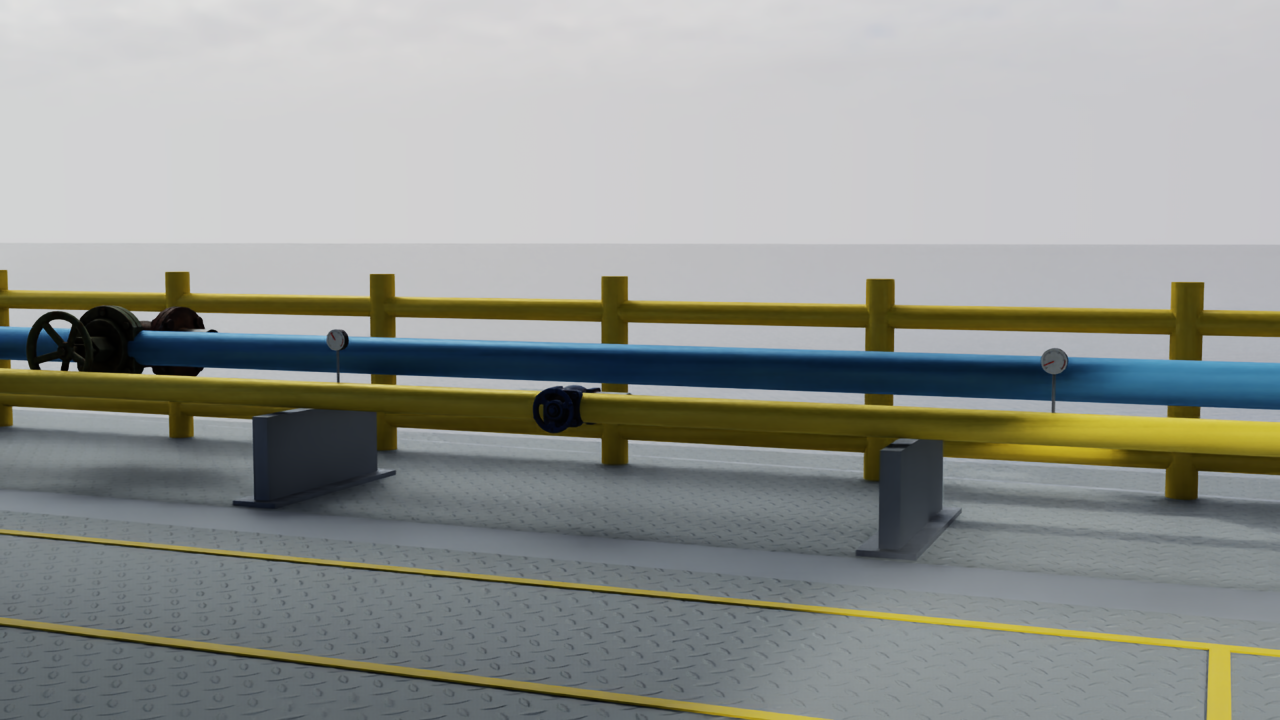
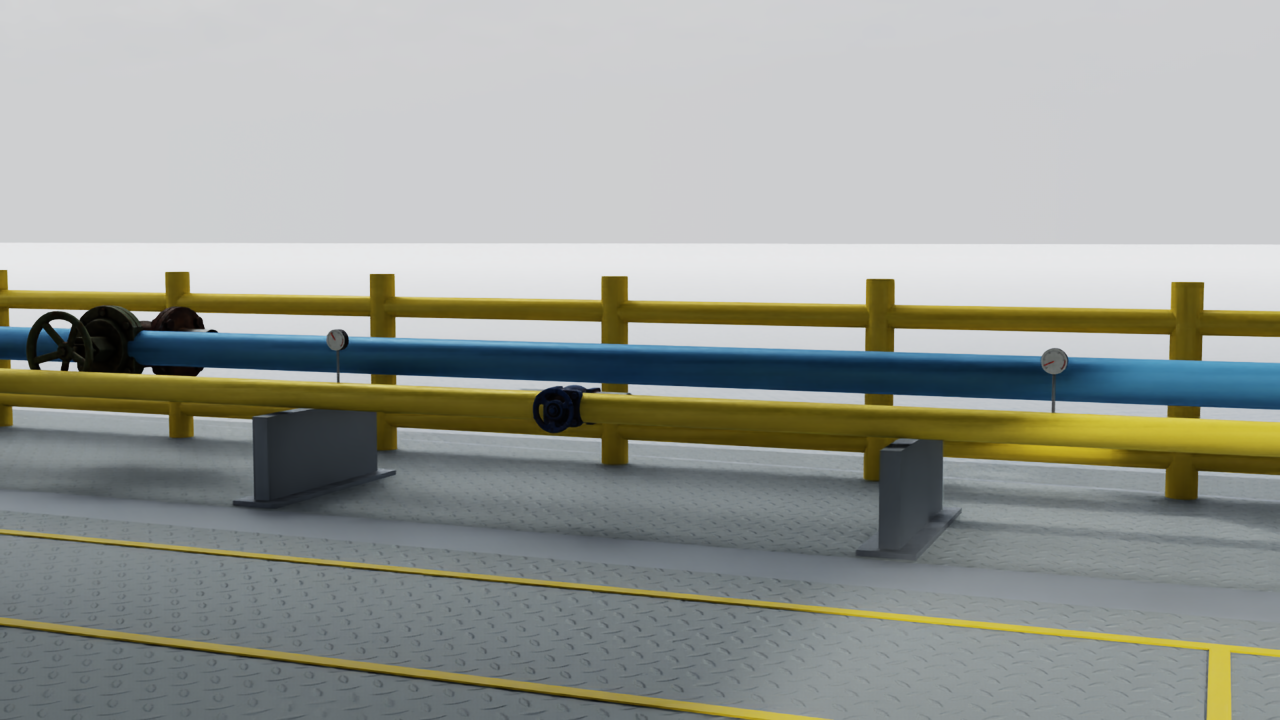
Add sea haze and the rusty_metal_grid texture
Save distance and height fog in the full rig scene, use water's real
index of refraction for the sea, and add a labeled texture preview sheet.

diff --git a/sim/build_full_rig.py b/sim/build_full_rig.py
@@ -63,6 +63,19 @@ PAINTS = {
 }
 TILE_METRES = {"deck": 2.5, "concrete": 6.0, "module_white": 4.0, "module_blue": 4.0, "module_grey": 4.0}
 SEA_TILE_METRES = 70.0
+# Sea haze. Saved in the scene so it applies when anyone opens the rig. Distances are in metres.
+HAZE_SETTINGS = {
+    "rtx:fog:enabled": True,
+    "rtx:fog:fogZup:enabled": True,
+    "rtx:fog:fogColor": Gf.Vec3f(0.55, 0.565, 0.585),
+    "rtx:fog:fogColorIntensity": 1.0,
+    "rtx:fog:fogStartHeight": 0.0,
+    "rtx:fog:fogHeightDensity": 0.0008,
+    "rtx:fog:fogHeightFalloff": 0.15,
+    "rtx:fog:fogStartDist": 150.0,
+    "rtx:fog:fogEndDist": 2600.0,
+    "rtx:fog:fogDistanceDensity": 0.6,
+}
 FACADE_MIN_AREA = 300.0  # STL units squared, about 19 square metres
 MODULE_PAINTS = ("module_white", "module_blue", "module_grey")
 
@@ -262,6 +275,7 @@ def add_environment(stage):
     shader.CreateIdAttr("UsdPreviewSurface")
     shader.CreateInput("diffuseColor", Sdf.ValueTypeNames.Color3f).Set(Gf.Vec3f(0.012, 0.06, 0.09))
     shader.CreateInput("roughness", Sdf.ValueTypeNames.Float).Set(0.13)
+    shader.CreateInput("ior", Sdf.ValueTypeNames.Float).Set(1.33)
     reader = UsdShade.Shader.Define(stage, "/World/Looks/sea/uv")
     reader.CreateIdAttr("UsdPrimvarReader_float2")
     reader.CreateInput("varname", Sdf.ValueTypeNames.Token).Set("st")
@@ -378,7 +392,11 @@ def build_scene() -> dict:
         "gauge_closeup": add_camera(stage, "gauge_closeup", (-12.0, 22.0, 43.85), (-12.0, 23.32, 43.8), 40),
         "helideck": add_camera(stage, "helideck", (center[0] - 50, center[1] - 60, 72), (-22.0, -22.0, 51.0), 30),
     }
-    stage.GetRootLayer().Save()
+    layer = stage.GetRootLayer()
+    layer_data = dict(layer.customLayerData)
+    layer_data["renderSettings"] = HAZE_SETTINGS
+    layer.customLayerData = layer_data
+    layer.Save()
 
     deck_heights = {
         name: round((raw - args.sea_level) * args.scale, 2)
@@ -405,6 +423,7 @@ def build_scene() -> dict:
 
 
 def render_previews(cameras: dict) -> None:
+    import carb.settings
     import omni.kit.app
     import omni.usd
     from PIL import Image
@@ -420,6 +439,19 @@ def render_previews(cameras: dict) -> None:
         if context.get_stage_loading_status()[2] == 0:
             break
     for _ in range(60):
+        simulation_app.update()
+
+    settings = carb.settings.get_settings()
+    for key, value in HAZE_SETTINGS.items():
+        path = "/" + key.replace(":", "/")
+        print(f"HAZE_LOADED {path} = {settings.get(path)}")
+        if isinstance(value, bool):
+            settings.set_bool(path, value)
+        elif isinstance(value, float):
+            settings.set_float(path, value)
+        else:
+            settings.set_float_array(path, list(value))
+    for _ in range(30):
         simulation_app.update()
 
     for name, path in cameras.items():

diff --git a/sim/tools/texture_sheet.py b/sim/tools/texture_sheet.py
@@ -1,0 +1,61 @@
+"""Make one labeled preview image of every texture.
+
+    C:\\isaacsim\\python.bat sim\\tools\\texture_sheet.py
+
+Writes sim/output/texture_sheet.png.
+"""
+
+from __future__ import annotations
+
+from pathlib import Path
+
+from PIL import Image, ImageDraw, ImageFont
+
+SIM_DIR = Path(__file__).resolve().parents[1]
+TEXTURES = SIM_DIR / "assets" / "third_party" / "textures"
+GENERATED = SIM_DIR / "assets" / "generated"
+OUT = SIM_DIR / "output" / "texture_sheet.png"
+
+TILE = 300
+LABEL = 62
+GAP = 14
+COLUMNS = 4
+USED_BY = {
+    "metal_plate": "Full rig: floor relief",
+    "box_profile_metal_sheet": "Full rig: wall relief",
+    "concrete_floor_damaged_01": "Full rig: leg relief",
+    "metal_grate_rusty": "Deck scene",
+    "rusty_metal_02": "Deck scene",
+    "rusty_painted_metal": "Deck scene",
+    "green_metal_rust": "Deck scene",
+    "blue_metal_plate": "Deck scene",
+    "rust_coarse_01": "Deck scene",
+}
+
+entries = [(folder.name, folder / "diff.jpg", USED_BY.get(folder.name, "Not used yet")) for folder in sorted(TEXTURES.iterdir())]
+entries.append(("sea_normal", GENERATED / "sea_normal.png", "Full rig: sea ripples"))
+entries.append(("gauge_dial", GENERATED / "gauge_dial.png", "Full rig: gauges"))
+
+rows = (len(entries) + COLUMNS - 1) // COLUMNS
+sheet = Image.new(
+    "RGB",
+    (COLUMNS * (TILE + GAP) + GAP, rows * (TILE + LABEL + GAP) + GAP),
+    (24, 26, 29),
+)
+draw = ImageDraw.Draw(sheet)
+try:
+    title = ImageFont.truetype("arialbd.ttf", 18)
+    detail = ImageFont.truetype("arial.ttf", 15)
+except OSError:
+    title = detail = ImageFont.load_default()
+
+for index, (name, path, used) in enumerate(entries):
+    x = GAP + (index % COLUMNS) * (TILE + GAP)
+    y = GAP + (index // COLUMNS) * (TILE + LABEL + GAP)
+    sheet.paste(Image.open(path).convert("RGB").resize((TILE, TILE)), (x, y))
+    draw.text((x, y + TILE + 8), name, fill=(240, 240, 240), font=title)
+    draw.text((x, y + TILE + 33), used, fill=(170, 176, 182), font=detail)
+
+OUT.parent.mkdir(parents=True, exist_ok=True)
+sheet.save(OUT)
+print(f"SHEET_WRITTEN {OUT} entries={len(entries)}")
